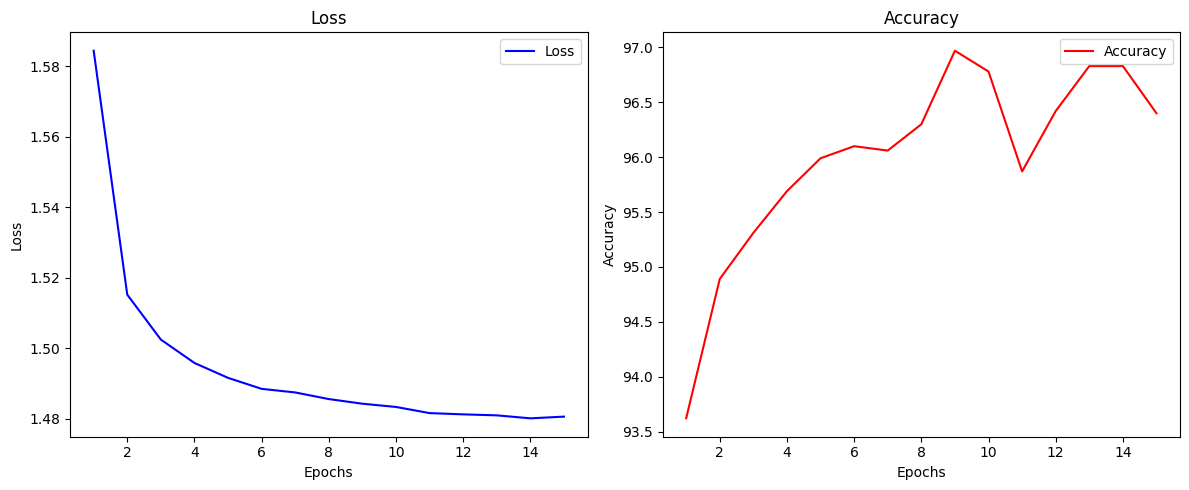
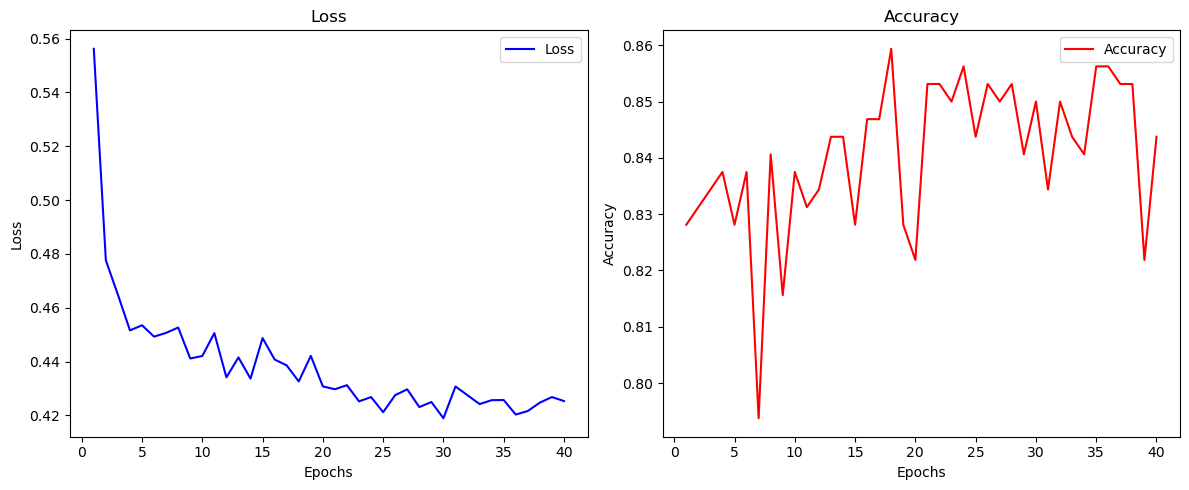
lab5 update

diff --git a/README.md b/README.md
@@ -1,85 +1,24 @@
-# Лабораторная работа 4
+# Лабораторная работа 5
 
 ## Выполнение работы на датесете [Doom-Crossing](https://www.kaggle.com/datasets/andrewmvd/doom-crossing)
 ![Датасет](https://github.com/Danilkormilin/nn_modern_lab_2_kormilin/blob/main/dataset-cover.png)
 
 Для работы был выбран датасет Doom-Crossing из 400 изображений разделенный на тестовую и обучаюшую выборку в соотношении 8\2.
-Было разработано две архитектуры сверточных нейронных сетей с помощью nn.Sequentional:
+Была использована предобученая сеть resnet50 с измененной полносвязной частью на следующий блок:
 
-<table>
-    <thead>
-        <tr>
-            <th>-</th>
-            <th>Model 1</th>
-            <th>Model 2</th>
-        </tr>
-    </thead>
-    <tbody>
-        <tr>
-            <td align="center">Architecture</td>
-            <td><code>model_1 = nn.Sequential(
-    nn.Conv2d(3, 8, (3,3), 1),
-    nn.Conv2d(8, 8, (3,3), 1),
-    nn.AvgPool2d((2,2), 2),
-    nn.Conv2d(8, 16, (3,3), 1),
-    nn.Conv2d(16, 16, (3,3), 1),
-    nn.AvgPool2d((2,2), 2),
-    nn.Conv2d(16, 32, (3,3), 1),
-    nn.Conv2d(32, 32, (3,3), 1),
-    nn.AvgPool2d((2,2), 2),
-    nn.Conv2d(32, 32, (3,3), 1),
-    nn.Conv2d(32, 32, (3,3), 1),
-    nn.AvgPool2d((2,2), 2),
-    nn.Conv2d(32, 32, (3,3), 1),
-    nn.Conv2d(32, 64, (3,3), 1),
-    nn.Conv2d(64, 128, (3,3), 1),
-    nn.MaxPool2d((2,2), 2),
-    nn.Flatten(),
-    nn.Linear(128, 2),
-    nn.Sigmoid()
-).to(device)</code>code></td>
-            <td><code>model_2 = nn.Sequential(
-    nn.Conv2d(3, 8, (3,3), 1),
-    nn.Conv2d(8, 8, (3,3), 1),
-    nn.ReLU(),
-    nn.BatchNorm2d(8),
-    nn.AvgPool2d((2,2), 2),
-    nn.Conv2d(8, 16, (3,3), 1),
-    nn.Conv2d(16, 16, (3,3), 1),
-    nn.ReLU(),
-    nn.BatchNorm2d(16),
-    nn.AvgPool2d((2,2), 2),
-    nn.Conv2d(16, 32, (3,3), 1),
-    nn.Conv2d(32, 32, (3,3), 1),
-    nn.ReLU(),
-    nn.BatchNorm2d(32),
-    nn.AvgPool2d((2,2), 2),
-    nn.Flatten(),
-    nn.Linear(14112, 512),
-    nn.Linear(512, 2),
-    nn.Sigmoid()
-).to(device)</code></td>
-        </tr>
-        <tr>
-            <td align="center">Best Accuracy</td>
-            <td align="center">72,8%</td>
-            <td align="center">76,8%</td>
-        </tr>
-        <tr>
-            <td align="center">LearningRate</td>
-            <td align="center">0.002 - на старте</td>
-            <td align="center">0.002 - на старте</td>
-        </tr>
-        <tr>
-            <td align="center">Number of epochs</td>
-            <td align="center">100</td>
-            <td align="center">100</td>
-        </tr>
-    </tbody>
-</table>
+'''
+  (fc): Sequential(
+    (0): Linear(in_features=2048, out_features=512, bias=True)
+    (1): ReLU()
+    (2): Linear(in_features=512, out_features=64, bias=True)
+    (3): ReLU()
+    (4): Linear(in_features=64, out_features=2, bias=True)
+    (5): Sigmoid()
+  )
+'''
 
+Для обучения сам resnet был заборожен, по сути обучался только классификатор
 В качестве оптимизатора был выбран AdamW.
-##Примененные улучшения
 В качестве scheduler'а был выбран ReduceLROnPlateau.
 Также для данной работы были выбраны следующие аугментации:
 '''
@@ -88,26 +27,16 @@ A.Affine(rotate=25, scale=(0.9, 0.9),  p=1.),
 A.HorizontalFlip(p=.5)
 '''
 это позволило немного увеличить датасет.
-Далее представлены результаты обучения первой модели в виде графика:
-![Датасет](https://github.com/Danilkormilin/nn_modern_lab_2_kormilin/blob/lab4/plots_1.png)
 
-Далее представлены результаты обучения второй модели в виде графика:
-![Датасет](https://github.com/Danilkormilin/nn_modern_lab_2_kormilin/blob/lab4/plots_2.png)
+Удалось добится точности в 85,6%!!! Это уже неплохо в сравнении с предыдущими попытками
+Далее представлены результаты обучения модели в виде графика:
+![Датасет](https://github.com/Danilkormilin/nn_modern_lab_2_kormilin/blob/lab5/loss_accu.png)
 
-Далее можно увидеть confusion matrix первой и второй модели
-![Датасет](https://github.com/Danilkormilin/nn_modern_lab_2_kormilin/blob/lab4/conf_1.png)
-![Датасет](https://github.com/Danilkormilin/nn_modern_lab_2_kormilin/blob/lab4/conf_2.png)
+Далее можно увидеть confusion matrix модели
+![Датасет](https://github.com/Danilkormilin/nn_modern_lab_2_kormilin/blob/lab5/conf.png)
 
-Интересной особенностью является то, что первая модель лучше справляется с animal crossing, а вторая с doom)))
 
 Метрики
-
-Модель 1:
-Precision: 0.703
-Recall: 0.803
-Accuracy: 0.732
-
-Модель 2:
-Precision: 0.784
-Recall: 0.737
-Accuracy: 0.767
+Precision: 0.8581081081081081
+Recall: 0.8355263157894737
+Accuracy: 0.85625
